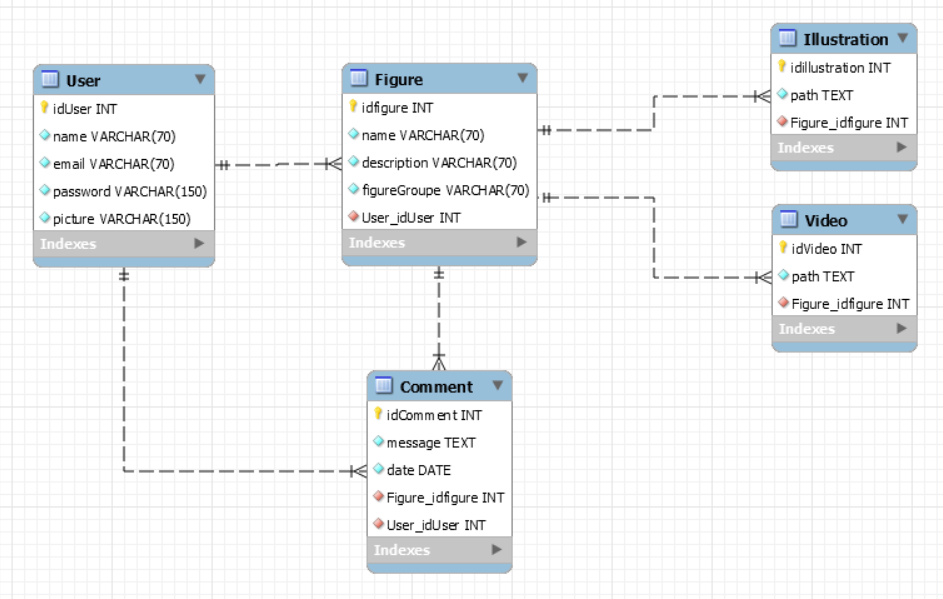
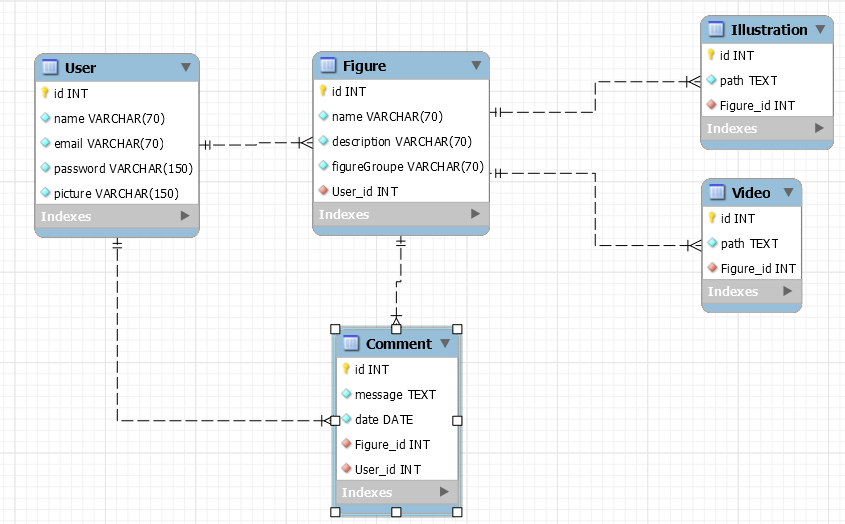
update relation entity and databse id as idEntity

Changed region(s): [[0.0308, 0.0305, 1.0, 1.0], [0.7077, 0.3359, 0.9846, 0.6107]]

diff --git a/src/Entity/Comment.php b/src/Entity/Comment.php
@@ -27,15 +27,18 @@ class Comment
      */
     private $date;
 
-    /**
-     * @ORM\Column(type="integer")
-     */
-    private $figure_id;
 
     /**
-     * @ORM\Column(type="integer")
+     * @ORM\ManyToOne(targetEntity=figure::class)
+     * @ORM\JoinColumn(nullable=false)
      */
-    private $user_id;
+    private $figure;
+
+    /**
+     * @ORM\ManyToOne(targetEntity=user::class)
+     * @ORM\JoinColumn(nullable=false)
+     */
+    private $user;
 
     public function getId(): ?int
     {
@@ -66,26 +69,26 @@ class Comment
         return $this;
     }
 
-    public function getFigureId(): ?int
+    public function getFigure(): ?figure
     {
-        return $this->figure_id;
+        return $this->figure;
     }
 
-    public function setFigureId(int $figure_id): self
+    public function setFigure(?figure $figure): self
     {
-        $this->figure_id = $figure_id;
+        $this->figure = $figure;
 
         return $this;
     }
 
-    public function getUserId(): ?int
+    public function getUser(): ?user
     {
-        return $this->user_id;
+        return $this->user;
     }
 
-    public function setUserId(int $user_id): self
+    public function setUser(?user $user): self
     {
-        $this->user_id = $user_id;
+        $this->user = $user;
 
         return $this;
     }

diff --git a/src/Entity/Illustration.php b/src/Entity/Illustration.php
@@ -23,9 +23,10 @@ class Illustration
     private $path;
 
     /**
-     * @ORM\Column(type="integer")
+     * @ORM\ManyToOne(targetEntity=figure::class)
+     * @ORM\JoinColumn(nullable=false)
      */
-    private $figure_id;
+    private $figure;
 
     public function getId(): ?int
     {
@@ -44,14 +45,14 @@ class Illustration
         return $this;
     }
 
-    public function getFigureId(): ?int
+    public function getFigure(): ?figure
     {
-        return $this->figure_id;
+        return $this->figure;
     }
 
-    public function setFigureId(int $figure_id): self
+    public function setFigure(?figure $figure): self
     {
-        $this->figure_id = $figure_id;
+        $this->figure = $figure;
 
         return $this;
     }

diff --git a/src/Entity/Figure.php b/src/Entity/Figure.php
@@ -32,10 +32,12 @@ class Figure
      */
     private $figureGroupe;
 
+
     /**
-     * @ORM\Column(type="integer")
+     * @ORM\ManyToOne(targetEntity=user::class, inversedBy="no")
+     * @ORM\JoinColumn(nullable=false)
      */
-    private $user_id;
+    private $user;
 
     public function getId(): ?int
     {
@@ -78,14 +80,14 @@ class Figure
         return $this;
     }
 
-    public function getUserId(): ?int
+    public function getUser(): ?user
     {
-        return $this->user_id;
+        return $this->user;
     }
 
-    public function setUserId(int $user_id): self
+    public function setUser(?user $user): self
     {
-        $this->user_id = $user_id;
+        $this->user = $user;
 
         return $this;
     }

diff --git a/src/Entity/Video.php b/src/Entity/Video.php
@@ -23,9 +23,10 @@ class Video
     private $path;
 
     /**
-     * @ORM\Column(type="integer")
+     * @ORM\ManyToOne(targetEntity=figure::class)
+     * @ORM\JoinColumn(nullable=false)
      */
-    private $figure_id;
+    private $figure;
 
     public function getId(): ?int
     {
@@ -44,14 +45,14 @@ class Video
         return $this;
     }
 
-    public function getFigureId(): ?int
+    public function getFigure(): ?figure
     {
-        return $this->figure_id;
+        return $this->figure;
     }
 
-    public function setFigureId(int $figure_id): self
+    public function setFigure(?figure $figure): self
     {
-        $this->figure_id = $figure_id;
+        $this->figure = $figure;
 
         return $this;
     }

diff --git a/src/Entity/User.php b/src/Entity/User.php
@@ -3,6 +3,8 @@
 namespace App\Entity;
 
 use App\Repository\UserRepository;
+use Doctrine\Common\Collections\ArrayCollection;
+use Doctrine\Common\Collections\Collection;
 use Doctrine\ORM\Mapping as ORM;
 
 /**
@@ -36,6 +38,11 @@ class User
      * @ORM\Column(type="string", length=150)
      */
     private $picture;
+
+    public function __construct()
+    {
+        $this->no = new ArrayCollection();
+    }
 
     public function getId(): ?int
     {
@@ -89,4 +96,5 @@ class User
 
         return $this;
     }
+
 }
